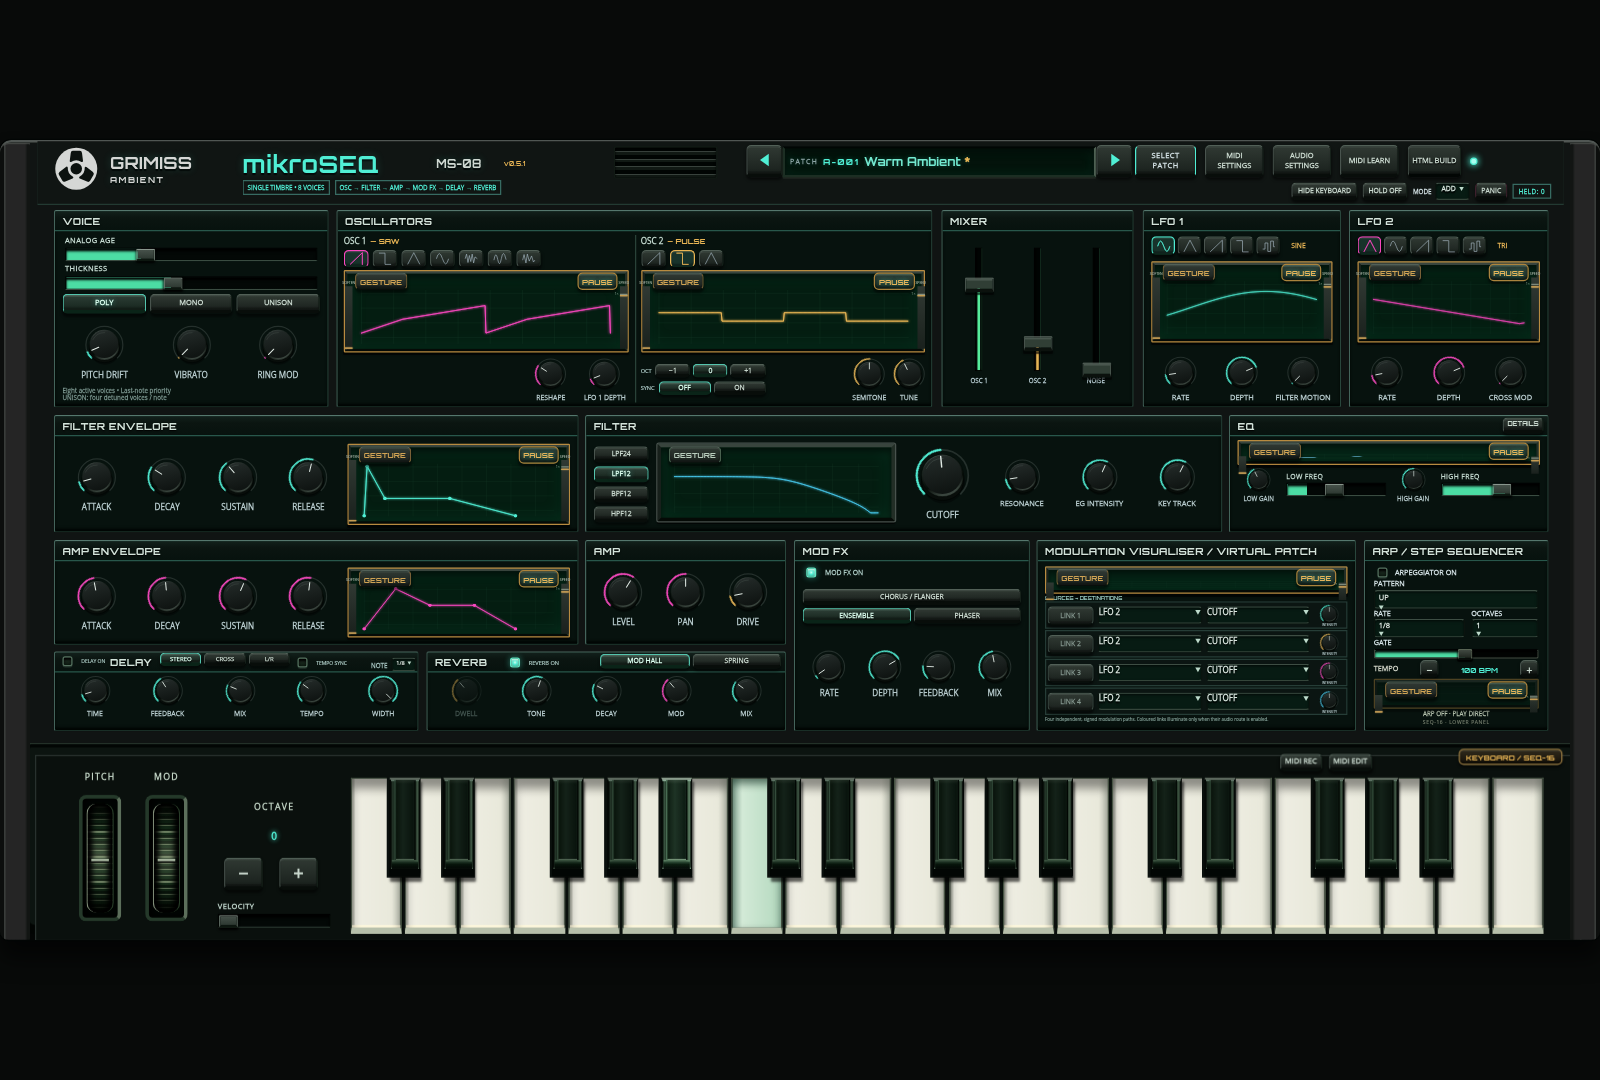
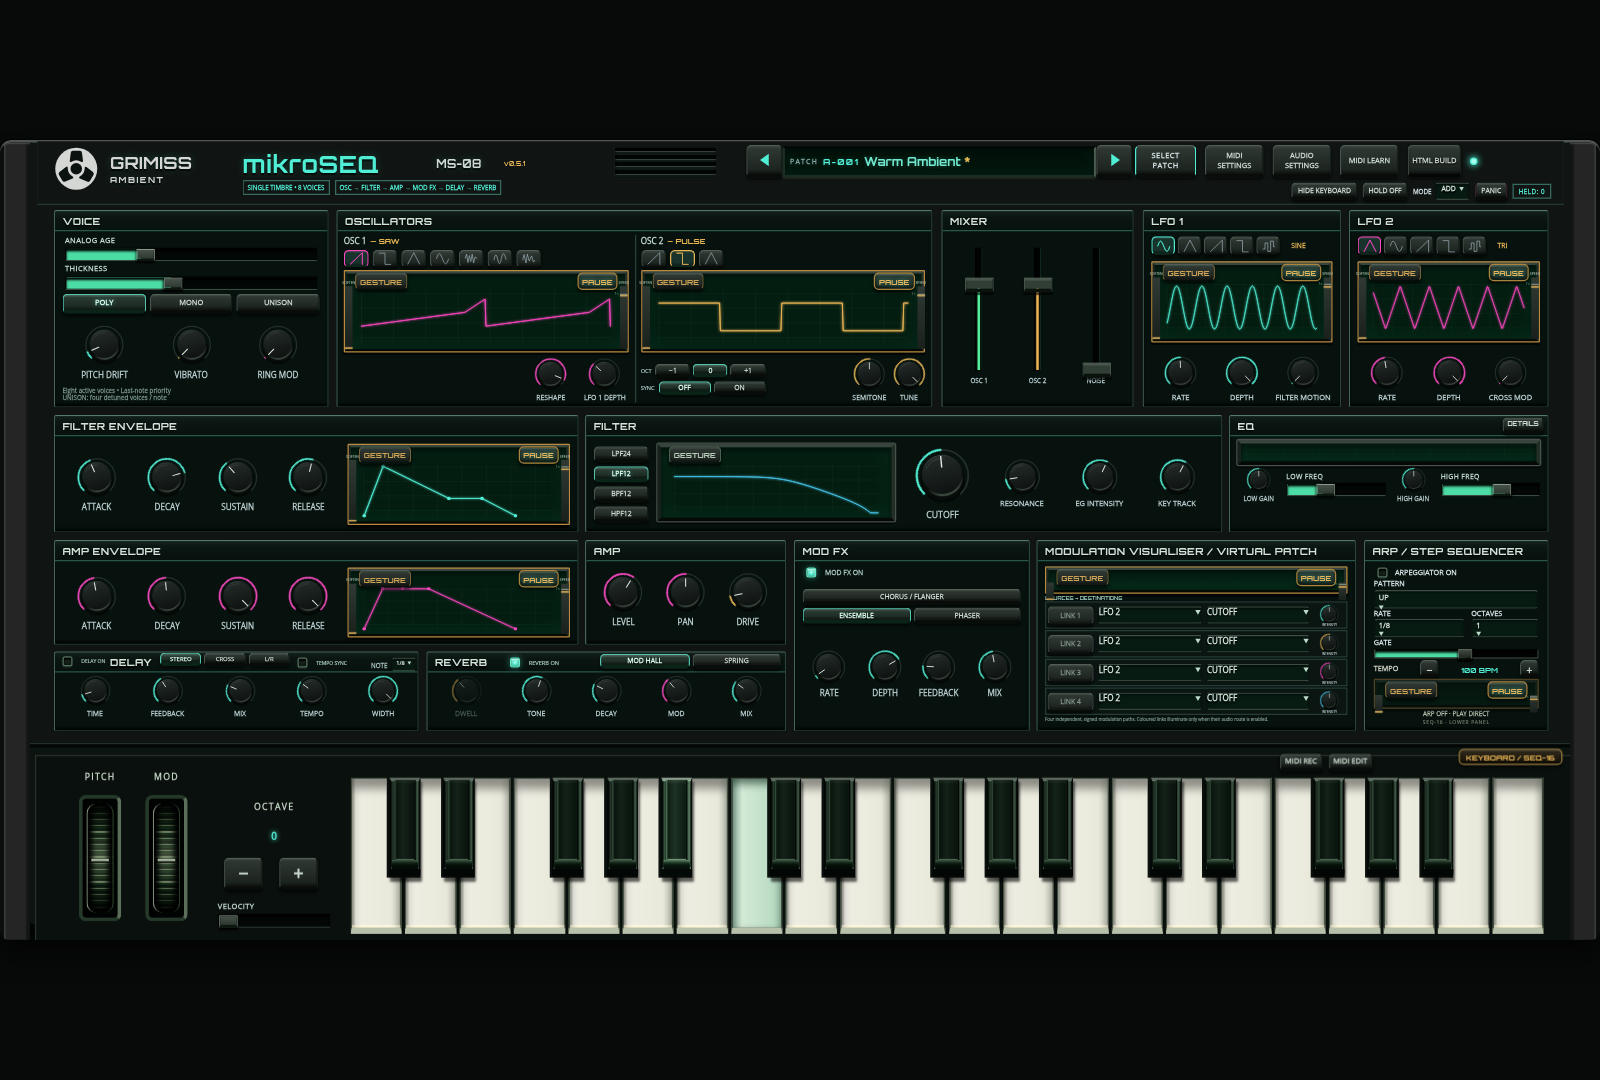
Remove EQ gesture controls and playback while preserving EQ and legacy patches

diff --git a/GRIMISS_mAMB_Synth_v0_3_3_Filter_Fix.html b/GRIMISS_mAMB_Synth_v0_3_3_Filter_Fix.html
@@ -1871,7 +1871,7 @@ const MICROSEQ_GESTURE_DISPLAYS={
  ampEnvelope:{name:'AMP ENVELOPE',selector:'#a-envelope',keys:['aa','ad','as','ar'],x:'as',y:'ar'},
  lfo1:{name:'LFO 1',selector:'#lfo-scope-1',keys:['lfo','lfo1Depth','motion'],x:'lfo',y:'lfo1Depth'},
  lfo2:{name:'LFO 2',selector:'#lfo-scope-2',keys:['lfo2Rate','lfo2Depth','cross'],x:'lfo2Rate',y:'lfo2Depth'},
- eq:{name:'EQ',selector:'#eq-scope',keys:['eqLowFreq','eqLow','eqHighFreq','eqHigh'],x:'eqLowFreq',y:'eqLow'},
+ eq:{retired:true,name:'EQ',selector:'#eq-scope',keys:['eqLowFreq','eqLow','eqHighFreq','eqHigh'],x:'eqLowFreq',y:'eqLow'},
  modfx:{retired:true,name:'MOD FX',selector:'.mod-panel > h2',proxy:true,keys:['fxModRate','fxModDepth','fxModFeedback','fxModMix'],x:'fxModRate',y:'fxModDepth'},
  delay:{retired:true,name:'DELAY',selector:'.delay-panel > h2',proxy:true,keys:['fxDelayTime','fxDelayFeedback','fxDelayMix','fxDelayWidth'],x:'fxDelayTime',y:'fxDelayFeedback'},
  reverb:{retired:true,name:'REVERB',selector:'.reverb-panel > h2',proxy:true,keys:['fxReverbDecay','fxReverbTone','fxReverbMix','fxReverbMod','fxReverbDwell'],x:'fxReverbDecay',y:'fxReverbTone'},

diff --git a/dist/GRIMISS_mAMB_v0_5_1.html b/dist/GRIMISS_mAMB_v0_5_1.html
@@ -1871,7 +1871,7 @@ const MICROSEQ_GESTURE_DISPLAYS={
  ampEnvelope:{name:'AMP ENVELOPE',selector:'#a-envelope',keys:['aa','ad','as','ar'],x:'as',y:'ar'},
  lfo1:{name:'LFO 1',selector:'#lfo-scope-1',keys:['lfo','lfo1Depth','motion'],x:'lfo',y:'lfo1Depth'},
  lfo2:{name:'LFO 2',selector:'#lfo-scope-2',keys:['lfo2Rate','lfo2Depth','cross'],x:'lfo2Rate',y:'lfo2Depth'},
- eq:{name:'EQ',selector:'#eq-scope',keys:['eqLowFreq','eqLow','eqHighFreq','eqHigh'],x:'eqLowFreq',y:'eqLow'},
+ eq:{retired:true,name:'EQ',selector:'#eq-scope',keys:['eqLowFreq','eqLow','eqHighFreq','eqHigh'],x:'eqLowFreq',y:'eqLow'},
  modfx:{retired:true,name:'MOD FX',selector:'.mod-panel > h2',proxy:true,keys:['fxModRate','fxModDepth','fxModFeedback','fxModMix'],x:'fxModRate',y:'fxModDepth'},
  delay:{retired:true,name:'DELAY',selector:'.delay-panel > h2',proxy:true,keys:['fxDelayTime','fxDelayFeedback','fxDelayMix','fxDelayWidth'],x:'fxDelayTime',y:'fxDelayFeedback'},
  reverb:{retired:true,name:'REVERB',selector:'.reverb-panel > h2',proxy:true,keys:['fxReverbDecay','fxReverbTone','fxReverbMix','fxReverbMod','fxReverbDwell'],x:'fxReverbDecay',y:'fxReverbTone'},

diff --git a/dist/GRIMISS_mAMB_v0_7.html b/dist/GRIMISS_mAMB_v0_7.html
@@ -1871,7 +1871,7 @@ const MICROSEQ_GESTURE_DISPLAYS={
  ampEnvelope:{name:'AMP ENVELOPE',selector:'#a-envelope',keys:['aa','ad','as','ar'],x:'as',y:'ar'},
  lfo1:{name:'LFO 1',selector:'#lfo-scope-1',keys:['lfo','lfo1Depth','motion'],x:'lfo',y:'lfo1Depth'},
  lfo2:{name:'LFO 2',selector:'#lfo-scope-2',keys:['lfo2Rate','lfo2Depth','cross'],x:'lfo2Rate',y:'lfo2Depth'},
- eq:{name:'EQ',selector:'#eq-scope',keys:['eqLowFreq','eqLow','eqHighFreq','eqHigh'],x:'eqLowFreq',y:'eqLow'},
+ eq:{retired:true,name:'EQ',selector:'#eq-scope',keys:['eqLowFreq','eqLow','eqHighFreq','eqHigh'],x:'eqLowFreq',y:'eqLow'},
  modfx:{retired:true,name:'MOD FX',selector:'.mod-panel > h2',proxy:true,keys:['fxModRate','fxModDepth','fxModFeedback','fxModMix'],x:'fxModRate',y:'fxModDepth'},
  delay:{retired:true,name:'DELAY',selector:'.delay-panel > h2',proxy:true,keys:['fxDelayTime','fxDelayFeedback','fxDelayMix','fxDelayWidth'],x:'fxDelayTime',y:'fxDelayFeedback'},
  reverb:{retired:true,name:'REVERB',selector:'.reverb-panel > h2',proxy:true,keys:['fxReverbDecay','fxReverbTone','fxReverbMix','fxReverbMod','fxReverbDwell'],x:'fxReverbDecay',y:'fxReverbTone'},

diff --git a/src/gesture-core.js b/src/gesture-core.js
@@ -22,7 +22,7 @@ const MICROSEQ_GESTURE_DISPLAYS={
  ampEnvelope:{name:'AMP ENVELOPE',selector:'#a-envelope',keys:['aa','ad','as','ar'],x:'as',y:'ar'},
  lfo1:{name:'LFO 1',selector:'#lfo-scope-1',keys:['lfo','lfo1Depth','motion'],x:'lfo',y:'lfo1Depth'},
  lfo2:{name:'LFO 2',selector:'#lfo-scope-2',keys:['lfo2Rate','lfo2Depth','cross'],x:'lfo2Rate',y:'lfo2Depth'},
- eq:{name:'EQ',selector:'#eq-scope',keys:['eqLowFreq','eqLow','eqHighFreq','eqHigh'],x:'eqLowFreq',y:'eqLow'},
+ eq:{retired:true,name:'EQ',selector:'#eq-scope',keys:['eqLowFreq','eqLow','eqHighFreq','eqHigh'],x:'eqLowFreq',y:'eqLow'},
  modfx:{retired:true,name:'MOD FX',selector:'.mod-panel > h2',proxy:true,keys:['fxModRate','fxModDepth','fxModFeedback','fxModMix'],x:'fxModRate',y:'fxModDepth'},
  delay:{retired:true,name:'DELAY',selector:'.delay-panel > h2',proxy:true,keys:['fxDelayTime','fxDelayFeedback','fxDelayMix','fxDelayWidth'],x:'fxDelayTime',y:'fxDelayFeedback'},
  reverb:{retired:true,name:'REVERB',selector:'.reverb-panel > h2',proxy:true,keys:['fxReverbDecay','fxReverbTone','fxReverbMix','fxReverbMod','fxReverbDwell'],x:'fxReverbDecay',y:'fxReverbTone'},

diff --git a/SCREEN_ONLY_GESTURES.md b/SCREEN_ONLY_GESTURES.md
@@ -1,10 +1,13 @@
 # Screen-only gestures and side-by-side oscillators
 
 Gesture controls and playback now belong only to existing visualization screens:
-OSC 1, OSC 2, filter, filter envelope, amplifier envelope, LFO 1, LFO 2, EQ,
-modulation visualizer and arpeggiator. All ten can play independently together.
+OSC 1, OSC 2, filter, filter envelope, amplifier envelope, LFO 1, LFO 2,
+modulation visualizer and arpeggiator. All nine can play independently together.
 Mod FX, Delay and Reverb have no screens: their gesture buttons, popup choices
-and gesture playback are removed. Their original audio effects and manual controls remain.
+and gesture playback are removed. Their original audio effects and manual controls remain. EQ gesture controls and
+playback are also removed; its response display, Details view, gain and frequency
+controls remain fully operational. Existing EQ gesture paths are retained inactive
+with the other retired records.
 
 The complete XY/Automation section, its two pads, expansion and assignment dialogs
 are removed. Its width is reassigned to the oscillator panel. OSC 1 and OSC 2 now
@@ -19,7 +22,7 @@ top row, retaining their sizes; the lower synth and keyboard/SEQ dimensions rema
 
 ## Compatibility
 
-The version-1 gesture schema still validates and round-trips the six retired
+The version-1 gesture schema still validates and round-trips the seven retired
 surface records and old XY assignment metadata. This avoids deleting stored
 performances or rejecting older patches. Retired records are excluded from the
 audio engine's active list and cannot preview or modulate anything, even if an old
@@ -37,7 +40,7 @@ FWD/BACK/PENDULUM, JUMP/SMOOTH, amber indicators and effective UI motion remain.
   sample-identical audio to no gestures at 44.1 and 48 kHz.
 - Remaining gestures retain sample-identical audio compared with the checkpoint.
 - All 100 factory sounds remain sample-identical to the earlier DSP reference.
-- Ten simultaneous screen gestures produce finite, non-silent audio alongside
+- Nine simultaneous screen gestures produce finite, non-silent audio alongside
   live input, MIDI, SEQ and ARP for a 60-second render; Panic releases ownership.
 - Browser checks cover screen-only buttons/editor choices, actual mouse and touch
   recording, soften/speed/pause, closed-popup animation, clear independence,
@@ -53,7 +56,7 @@ physical MIDI devices and tablet performance are not claimed as tested.
 Changed implementation: src/gesture-core.js, src/gesture-ui.js, src/gesture.css,
 src/interface.html, src/interface.js, src/coordinate-layout.js,
 src/reference-layout.json and src/workflow.js, plus standalone HTML builds.
-Tests are updated for ten eligible surfaces and removed XY UI, while preserving
+Tests are updated for nine eligible surfaces and removed XY UI, while preserving
 validation of all sixteen historical schema entries. New tests/screen-only-gestures.cjs
 covers inactive legacy data and actual audio. New screenshots and JSON results
 are retained in reports/ and tests/.
